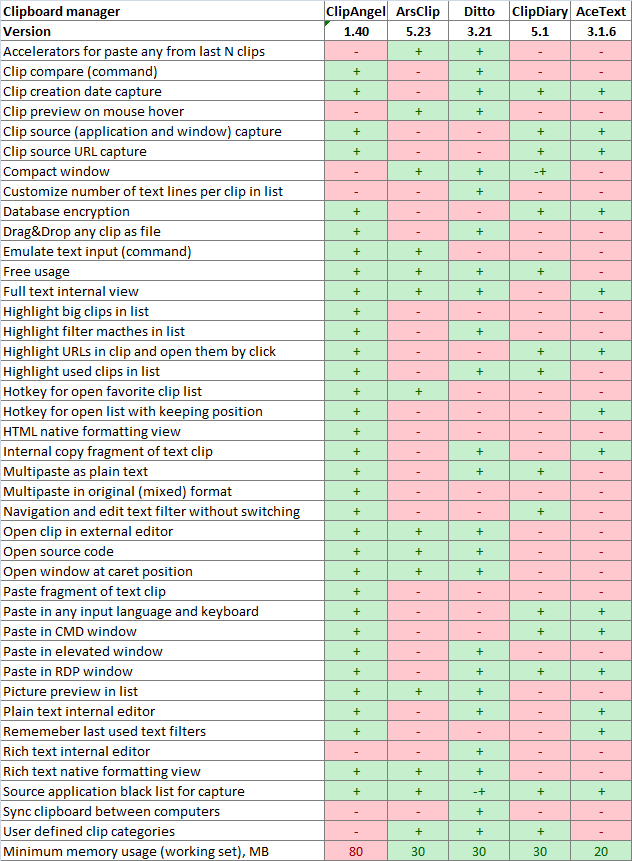
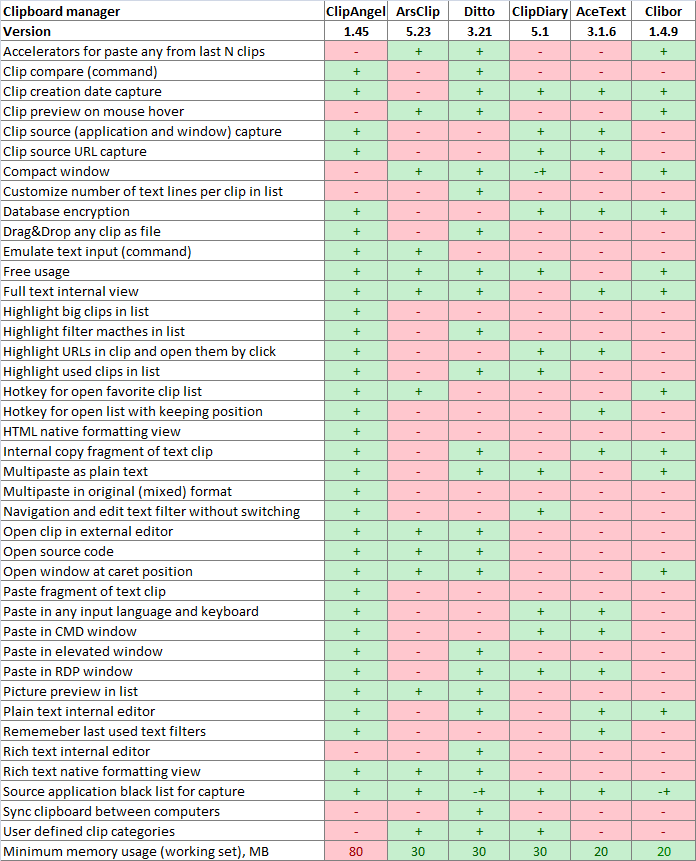
+global gotkey simulate input

diff --git a/SettingsForm.cs b/SettingsForm.cs
@@ -741,6 +741,7 @@ namespace ClipAngel
             IgnoreExclusiveFormatClipCapture = Properties.Settings.Default.IgnoreExclusiveFormatClipCapture;
             //RestoreCaretPositionOnFocusReturn = Properties.Settings.Default.RestoreCaretPositionOnFocusReturn;
             GlobalHotkeyPasteText = Properties.Settings.Default.GlobalHotkeyPasteText;
+            GlobalHotkeySimulateInput = Properties.Settings.Default.GlobalHotkeySimulateInput;
             UseFormattingInDuplicateDetection = Properties.Settings.Default.UseFormattingInDuplicateDetection;
             IgnoreApplicationsClipCapture = Properties.Settings.Default.IgnoreApplicationsClipCapture;
             CopyTextInAnyWindowOnCTRLF3 = Properties.Settings.Default.CopyTextInAnyWindowOnCTRLF3;
@@ -814,6 +815,7 @@ namespace ClipAngel
             Properties.Settings.Default.IgnoreExclusiveFormatClipCapture = IgnoreExclusiveFormatClipCapture;
             //Properties.Settings.Default.RestoreCaretPositionOnFocusReturn = RestoreCaretPositionOnFocusReturn;
             Properties.Settings.Default.GlobalHotkeyPasteText = GlobalHotkeyPasteText;
+            Properties.Settings.Default.GlobalHotkeySimulateInput = GlobalHotkeySimulateInput;
             Properties.Settings.Default.UseFormattingInDuplicateDetection = UseFormattingInDuplicateDetection;
             Properties.Settings.Default.IgnoreApplicationsClipCapture = IgnoreApplicationsClipCapture;
             Properties.Settings.Default.CopyTextInAnyWindowOnCTRLF3 = CopyTextInAnyWindowOnCTRLF3;
@@ -943,6 +945,11 @@ namespace ClipAngel
         [TypeConverterAttribute(typeof(HotkeyConverter))]
         [EditorAttribute(typeof(HotkeyEditor), typeof(UITypeEditor))]
         public string GlobalHotkeyPasteText { get; set; }
+
+        [GlobalizedCategory("Hotkeys")]
+        [TypeConverterAttribute(typeof(HotkeyConverter))]
+        [EditorAttribute(typeof(HotkeyEditor), typeof(UITypeEditor))]
+        public string GlobalHotkeySimulateInput { get; set; }
 
         [GlobalizedCategory("Hotkeys")]
         [TypeConverterAttribute(typeof(HotkeyConverter))]

diff --git a/Main.cs b/Main.cs
@@ -577,6 +577,8 @@ namespace ClipAngel
                 keyboardHook.RegisterHotKey(Modifiers, Key);
             if (ReadHotkeyFromText(Properties.Settings.Default.GlobalHotkeyPasteText, out Modifiers, out Key))
                 keyboardHook.RegisterHotKey(Modifiers, Key);
+            if (ReadHotkeyFromText(Properties.Settings.Default.GlobalHotkeySimulateInput, out Modifiers, out Key))
+                keyboardHook.RegisterHotKey(Modifiers, Key);
             if (ReadHotkeyFromText(Properties.Settings.Default.GlobalHotkeySwitchMonitoring, out Modifiers, out Key))
                 keyboardHook.RegisterHotKey(Modifiers, Key);
             if (Properties.Settings.Default.CopyTextInAnyWindowOnCTRLF3 && ReadHotkeyFromText("Control + F3", out Modifiers, out Key))
@@ -664,6 +666,10 @@ namespace ClipAngel
             else if (hotkeyTitle == Properties.Settings.Default.GlobalHotkeyPasteText)
             {
                 SendPasteClipExpress(dataGridView.Rows[0], PasteMethod.Text);
+            }
+            else if (hotkeyTitle == Properties.Settings.Default.GlobalHotkeySimulateInput)
+            {
+                SendPasteClipExpress(dataGridView.Rows[0], PasteMethod.SendChars);
             }
             else if (hotkeyTitle == Properties.Settings.Default.GlobalHotkeySwitchMonitoring)
             {

diff --git a/Properties/Settings.Designer.cs b/Properties/Settings.Designer.cs
@@ -692,5 +692,17 @@ namespace ClipAngel.Properties {
                 this["WindowPositionY"] = value;
             }
         }
+        
+        [global::System.Configuration.UserScopedSettingAttribute()]
+        [global::System.Diagnostics.DebuggerNonUserCodeAttribute()]
+        [global::System.Configuration.DefaultSettingValueAttribute("No")]
+        public string GlobalHotkeySimulateInput {
+            get {
+                return ((string)(this["GlobalHotkeySimulateInput"]));
+            }
+            set {
+                this["GlobalHotkeySimulateInput"] = value;
+            }
+        }
     }
 }

diff --git a/Properties/Resources.Designer.cs b/Properties/Resources.Designer.cs
@@ -1023,7 +1023,7 @@ namespace ClipAngel.Properties {
         }
         
         /// <summary>
-        ///   Looks up a localized string similar to 1.48.
+        ///   Looks up a localized string similar to 1.49.
         /// </summary>
         public static string VersionValue {
             get {
